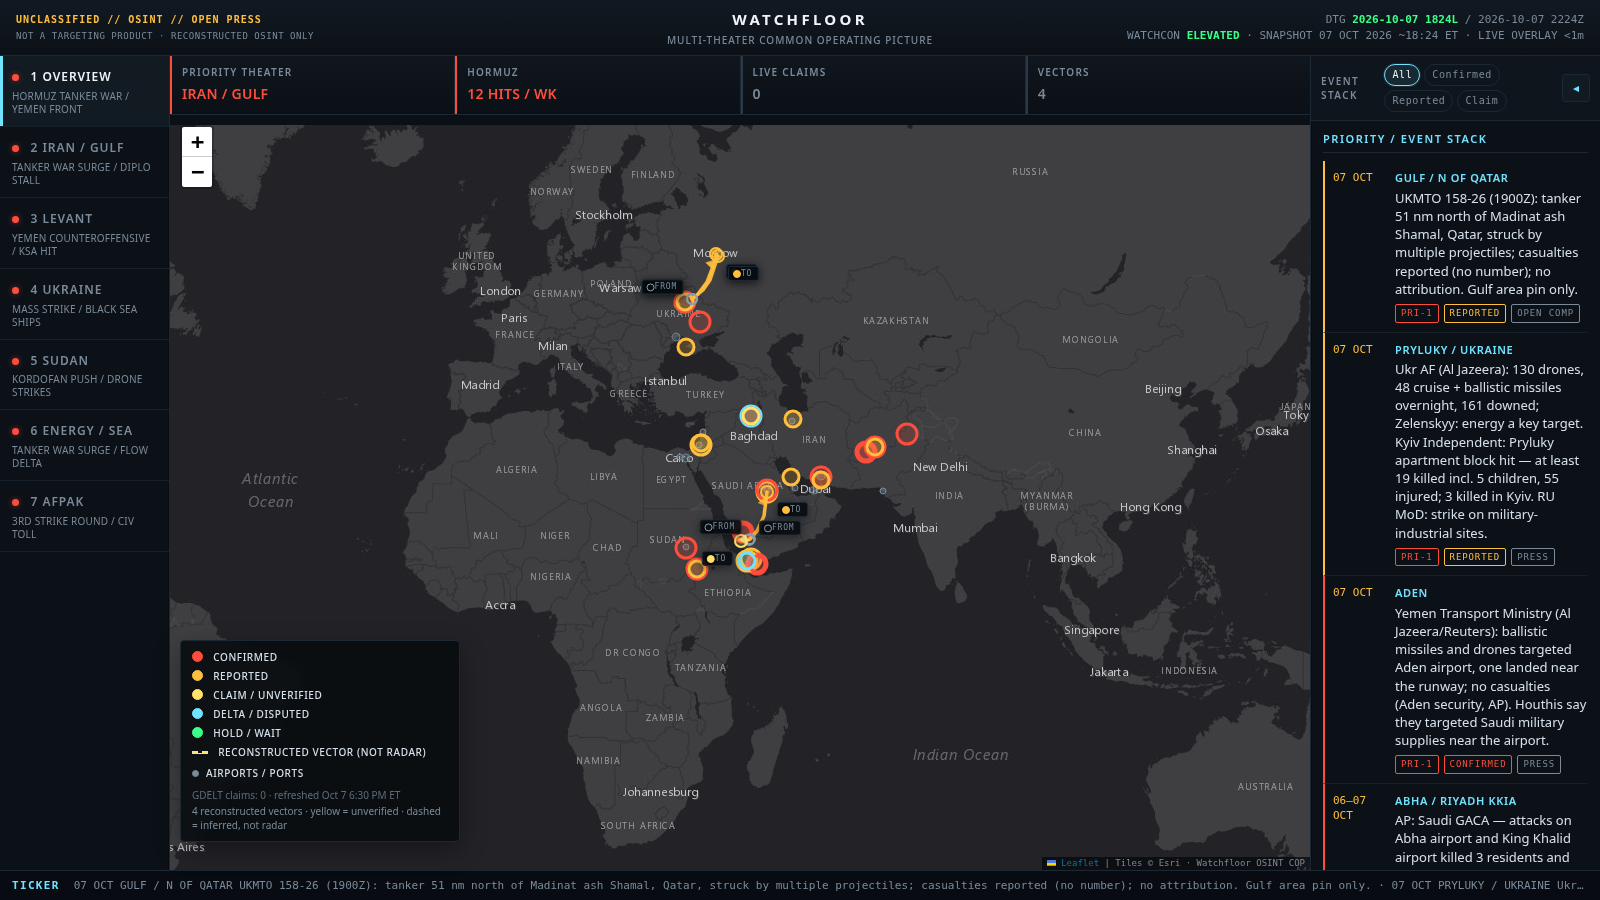
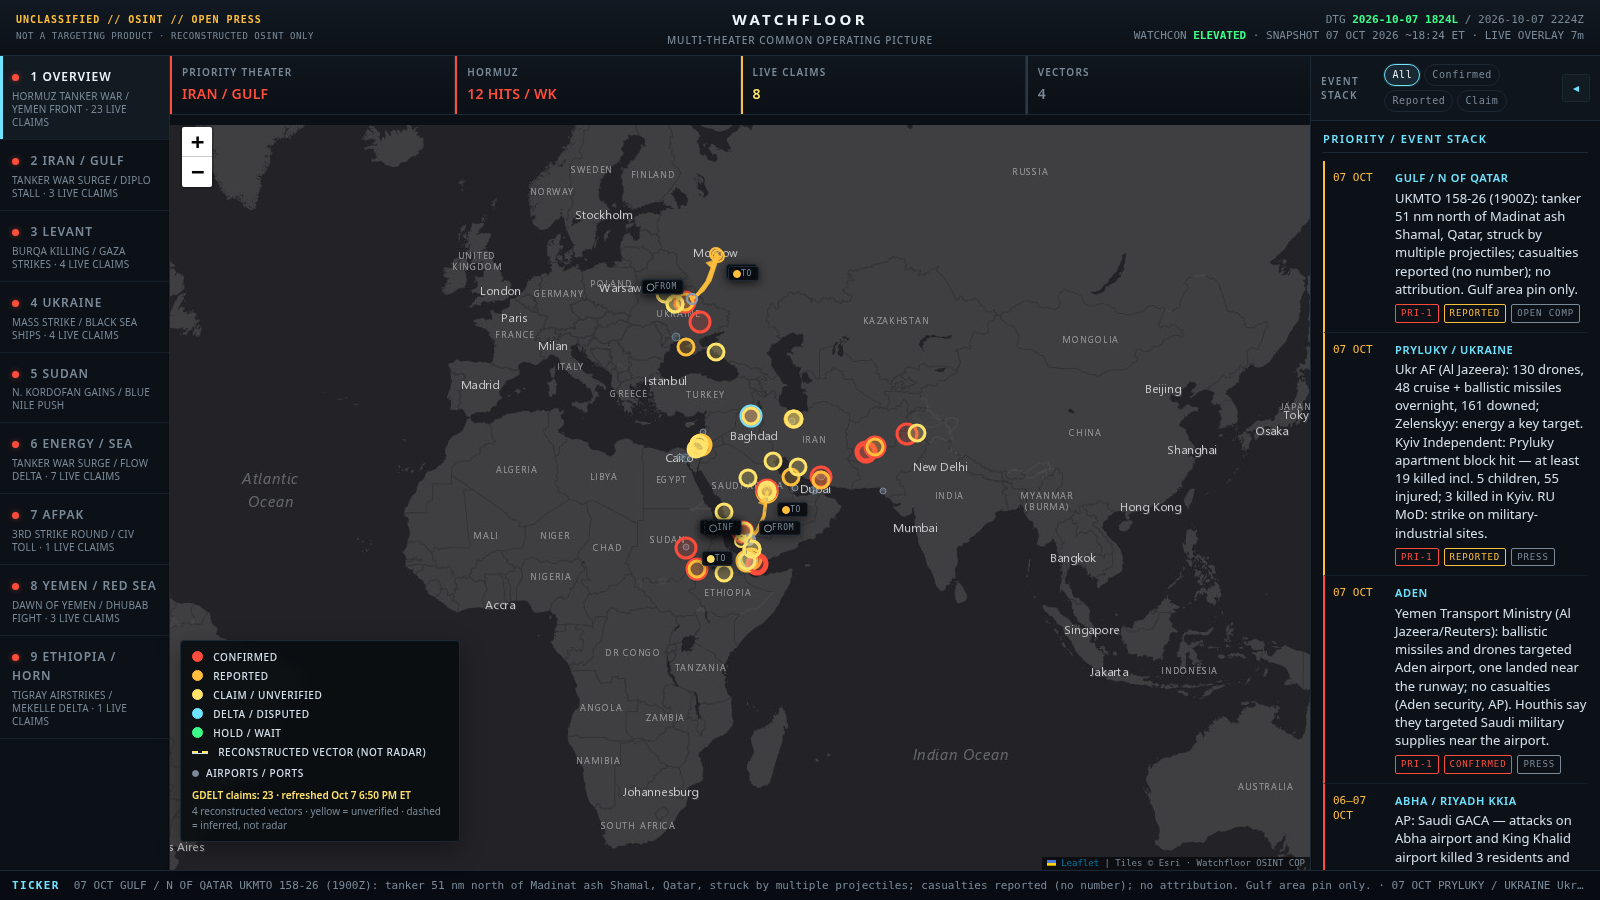
Docs: README for nine theaters and 6h live window; new screenshot (#2)
Approved by Chief of Staff. README.md + docs/watchfloor.png.

diff --git a/README.md b/README.md
@@ -28,17 +28,17 @@ Watchfloor is a watch-floor view, not a news site. Every item on the map carries
 
 ## What's on the map
 
-- Seven theaters: Overview, Iran/Gulf, Levant, Ukraine, Sudan, Energy/Sea, and AfPak (keys `1`–`7`)
+- Nine theaters: Overview, Iran/Gulf, Levant, Ukraine, Sudan, Energy/Sea, AfPak, Yemen/Red Sea, and Ethiopia/Horn (keys `1`–`9`)
 - Curated event stack for each theater, with source class and confidence
 - Reconstructed missile and drone vectors where both ends are named
-- Dark English basemap from Esri
+- Dark English basemap, Powered by Esri
 - Live GDELT claim layer (below)
 
-## The live claim layer is often empty, on purpose
+## The live claim layer
 
-A yellow layer from [GDELT](https://www.gdeltproject.org/) refreshes automatically. It keeps only strike, shelling, and blockade events inside the watched areas, and it drops country-level default locations, known bad geocodes, and vague actors. Those filters are strict, so the layer is frequently empty. An empty layer means nothing passed the filters, not that the feed is broken. The legend always shows the current count and the last refresh time, for example `GDELT claims: 0 · refreshed Oct 7, 6:30 PM ET`.
+A yellow layer shows the last ~6 hours of public [GDELT](https://www.gdeltproject.org/) claims, re-read on every refresh. It keeps only strike, shelling, and blockade events inside the watched areas, and it drops country-level default locations, known bad geocodes, and vague actors. Because those filters are strict, the layer can still be thin or empty when news is quiet; an empty layer means nothing passed the filters, not that the feed is broken. The legend always shows the current count and the last refresh time, for example `GDELT claims: 23 · refreshed Oct 7, 6:50 PM ET`.
 
-Every GDELT row is a CLAIM. None of it moves into the curated sitrep without named corroboration.
+Every GDELT row stays a CLAIM until the sitrep curator promotes it with named corroboration.
 
 ## How it stays current
 
@@ -55,7 +55,7 @@ python3 scripts/fetch_live.py
 npm run dev
 ```
 
-Keys: `1`–`7` switch theaters, `F` toggles fullscreen.
+Keys: `1`–`9` switch theaters, `F` toggles fullscreen.
 
 ## Public by design
 
